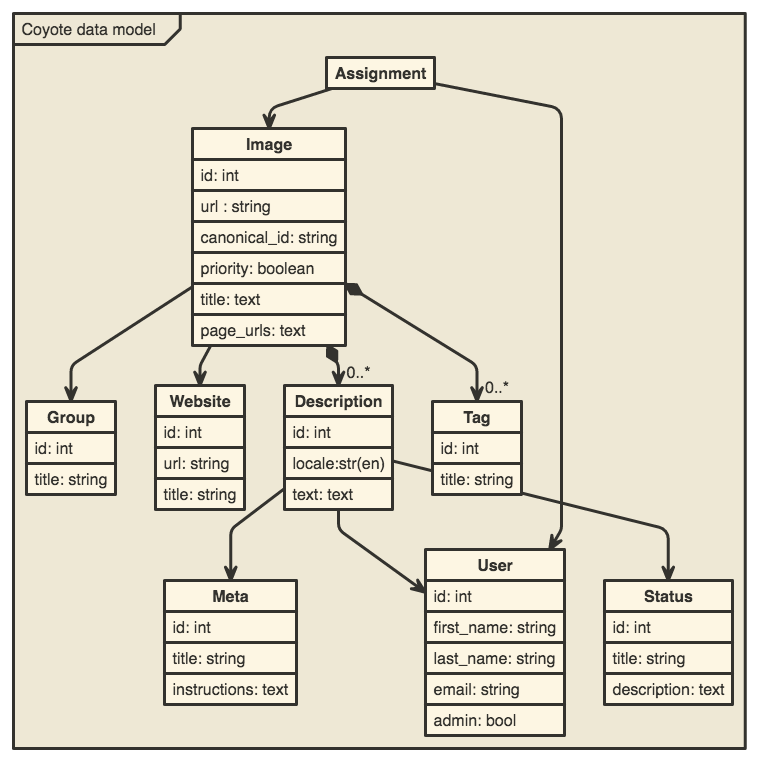
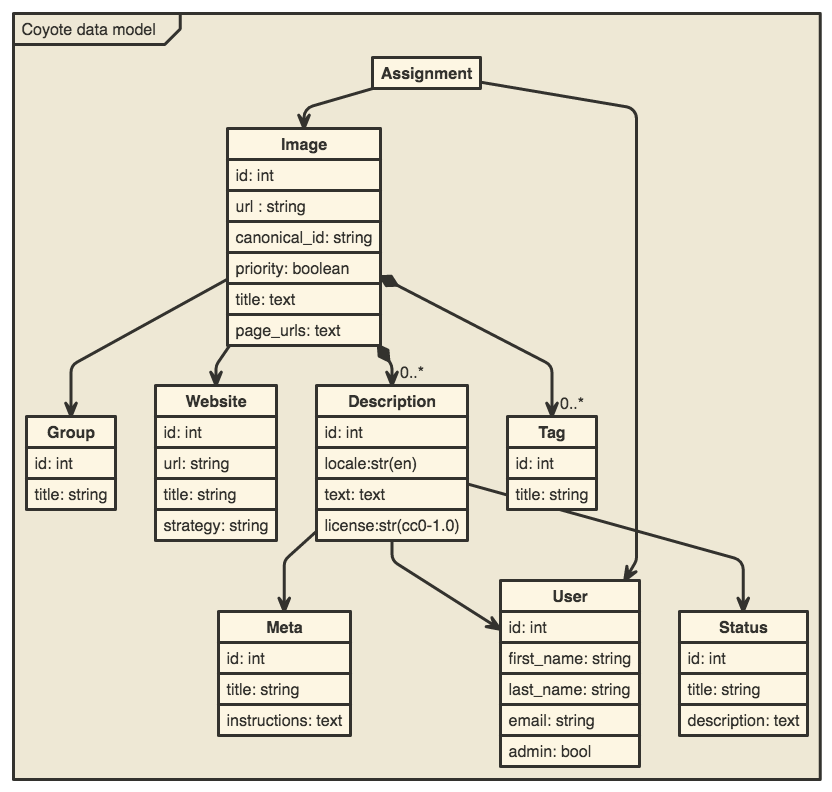
readme and datamodel update

Changed region(s): [[0.0, 0.0, 1.0, 0.9974]]

diff --git a/README.md b/README.md
@@ -10,7 +10,6 @@ Image annotation site and API to enable the distributed annotation of museum ima
 
 - [Coyote Repo](http://github.com/coyote-team/coyote)
 - [Coyote.pics](https://coyote.pics/)
-- [Coyote Tech intro](https://github.com/coyote-team/coyote/blob/master/app/views/pages/_intro.md)
 - [Museum of Contemporary Art Chicago's Coyote](http://coyote.mcachicago.org)
 
 ## Setup
@@ -25,8 +24,26 @@ bundle install
 bin/rake db:create db:migrate db:seed
 RAILS_ENV=test bin/rake db:create db:migrate
 ```
+See [bin/install.sh](https://github.com/coyote-team/coyote/blob/master/bin/install.sh) if you need some help on managing your ruby versions, etc.
 
 Secure creds are kept untracked in `.env`
+
+## Usage 
+
+```bash
+# Run the server
+bin/rails s
+
+# Automatically run tests as you work
+# You might need to install a shim for guard
+guard
+
+# Run the tests on their own
+bin/rspec
+
+# Run the console
+bin/rails c
+```
 
 ## Test
 
@@ -58,6 +75,7 @@ bundle exec cap production deploy
 ```
 
 ## Update website images
+This uses each website's strategy (see below)
 
 ```bash
 # Update images from past 2 minutes on local
@@ -67,23 +85,6 @@ bin/rake websites:update[60]
 # Update images from past 60 minutes on production
 TASK="websites:update[60]" bundle exec cap production rake
 
-```
-
-## Usage 
-
-```bash
-# Run the server
-bin/rails s
-
-# Automatically run tests as you work
-# You might need to install a shim for guard
-guard
-
-# Run the tests on their own
-bin/rspec
-
-# Run the console
-bin/rails c
 ```
 
 ## Vagrant Setup
@@ -134,7 +135,6 @@ We can extend the functionality of Coyote to better integrate with your particul
 - [bundler](http://bundler.io/)
 - [SASS](http://sass-lang.com/)
 - [Coffeescript](http://coffeescript.org/)
-- [accecess](http://lukyvj.github.io/accecss/)
 
 ## Data model
 
@@ -148,8 +148,8 @@ For use on [nomnoml](http://www.nomnoml.com/)
   [Image | id: int |url : string | canonical_id: string | priority: boolean | title: text | page_urls: text]
   [Tag | id: int | title: string]
   [Group | id: int | title: string]
-  [Description | id: int | locale:str(en) | text: text ]
-  [Website | id: int | url: string | title: string ]
+  [Description | id: int | locale:str(en) | text: text | license:str(cc0-1.0)]
+  [Website | id: int | url: string | title: string | strategy: string ]
   [Status | id: int | title: string | description: text]
   [Meta| id: int| title: string | instructions: text]
 
